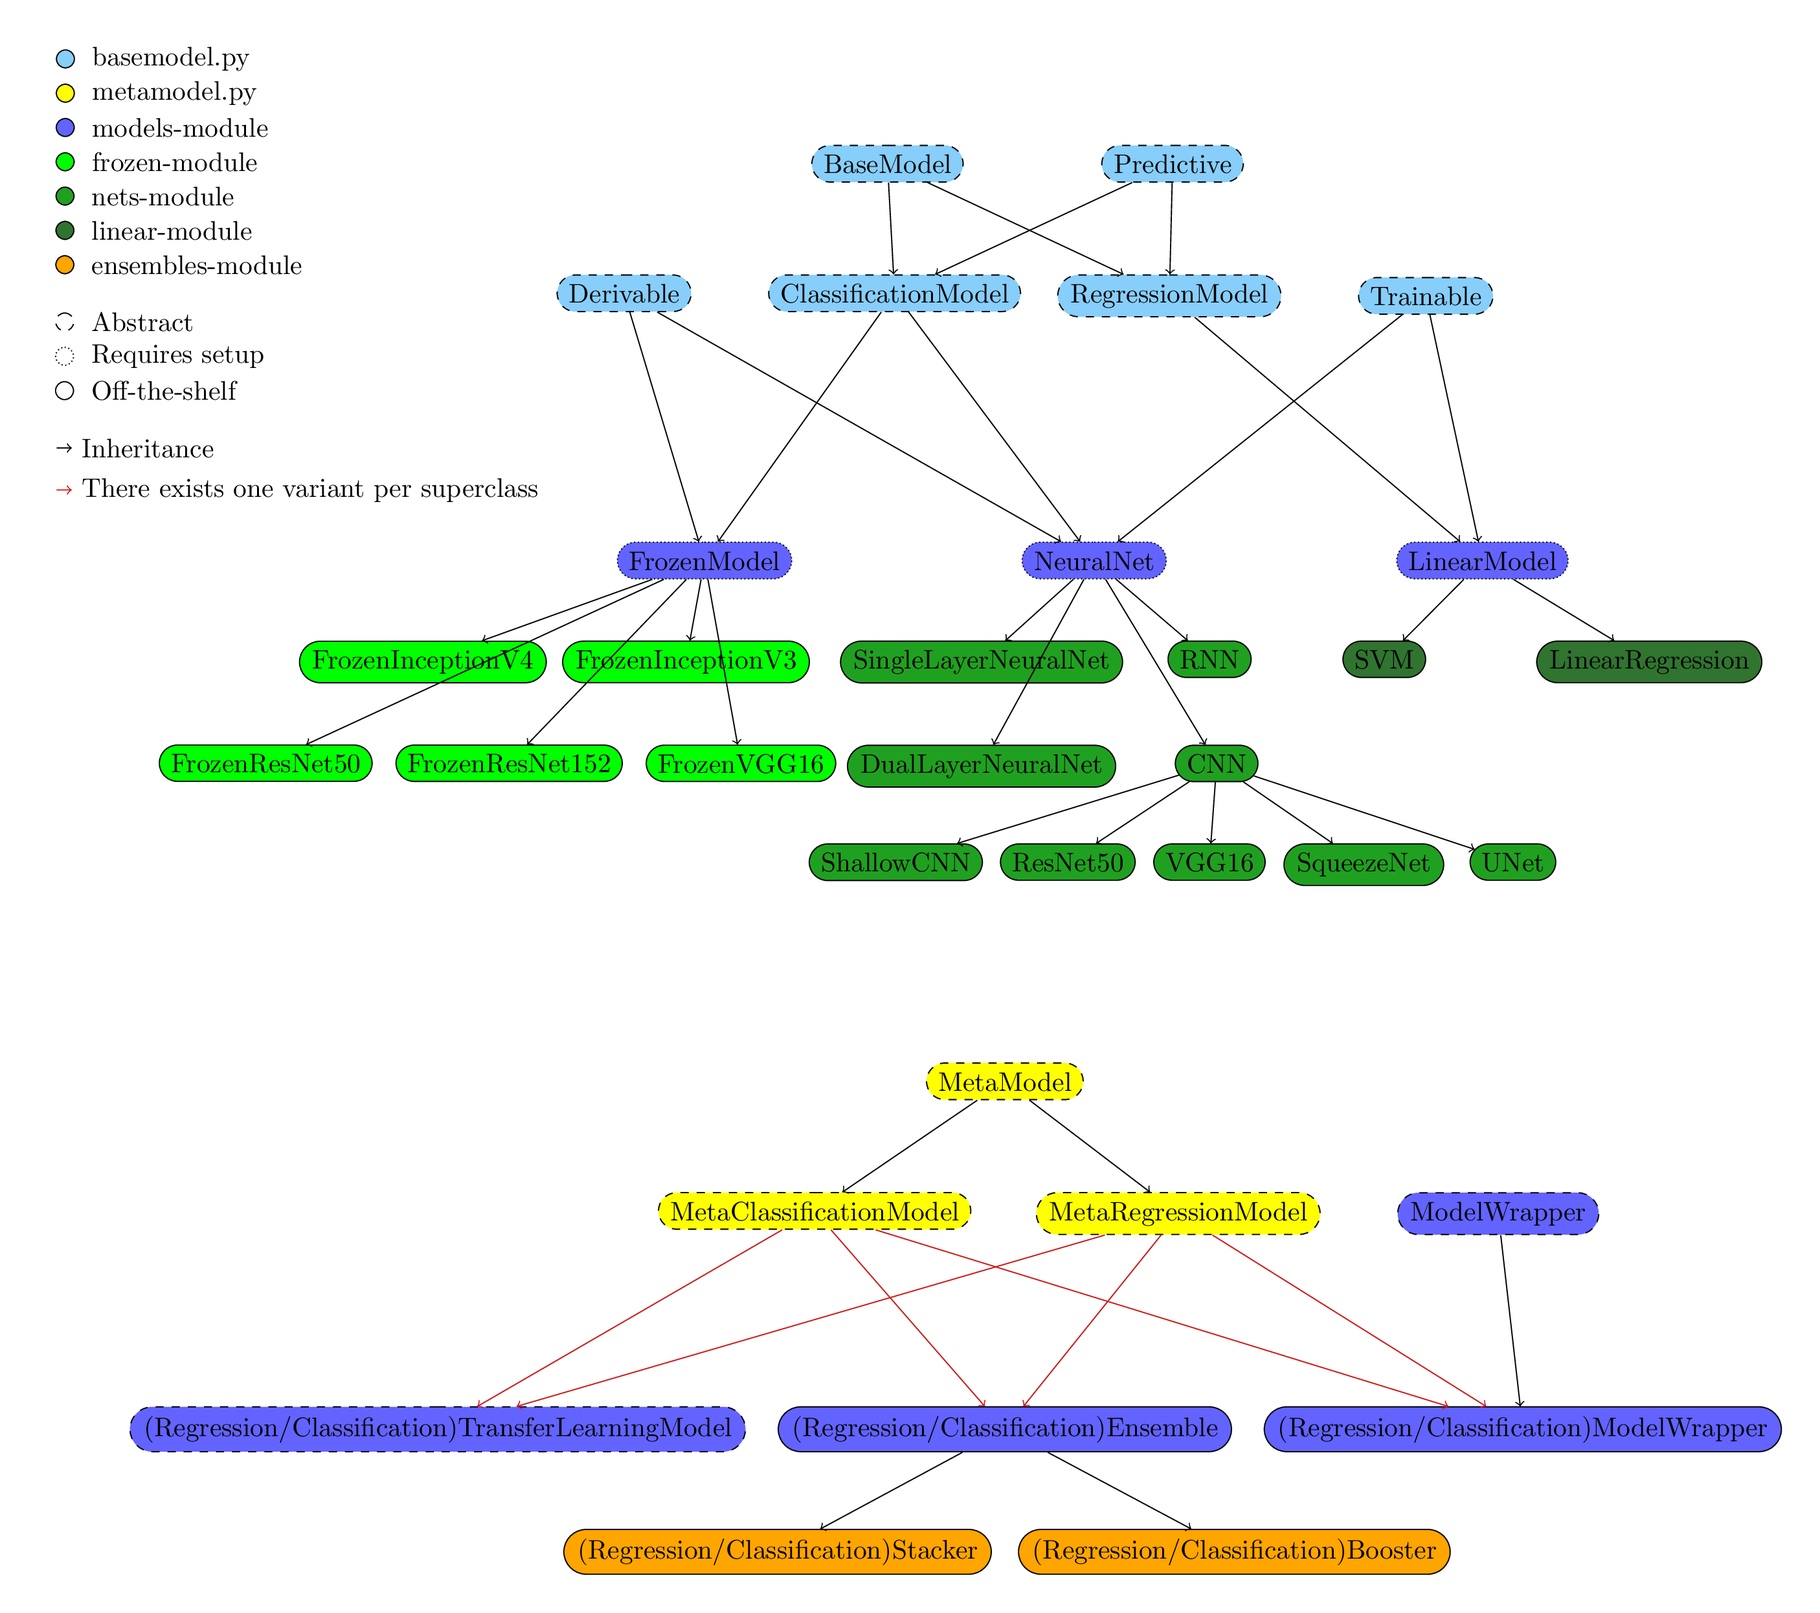
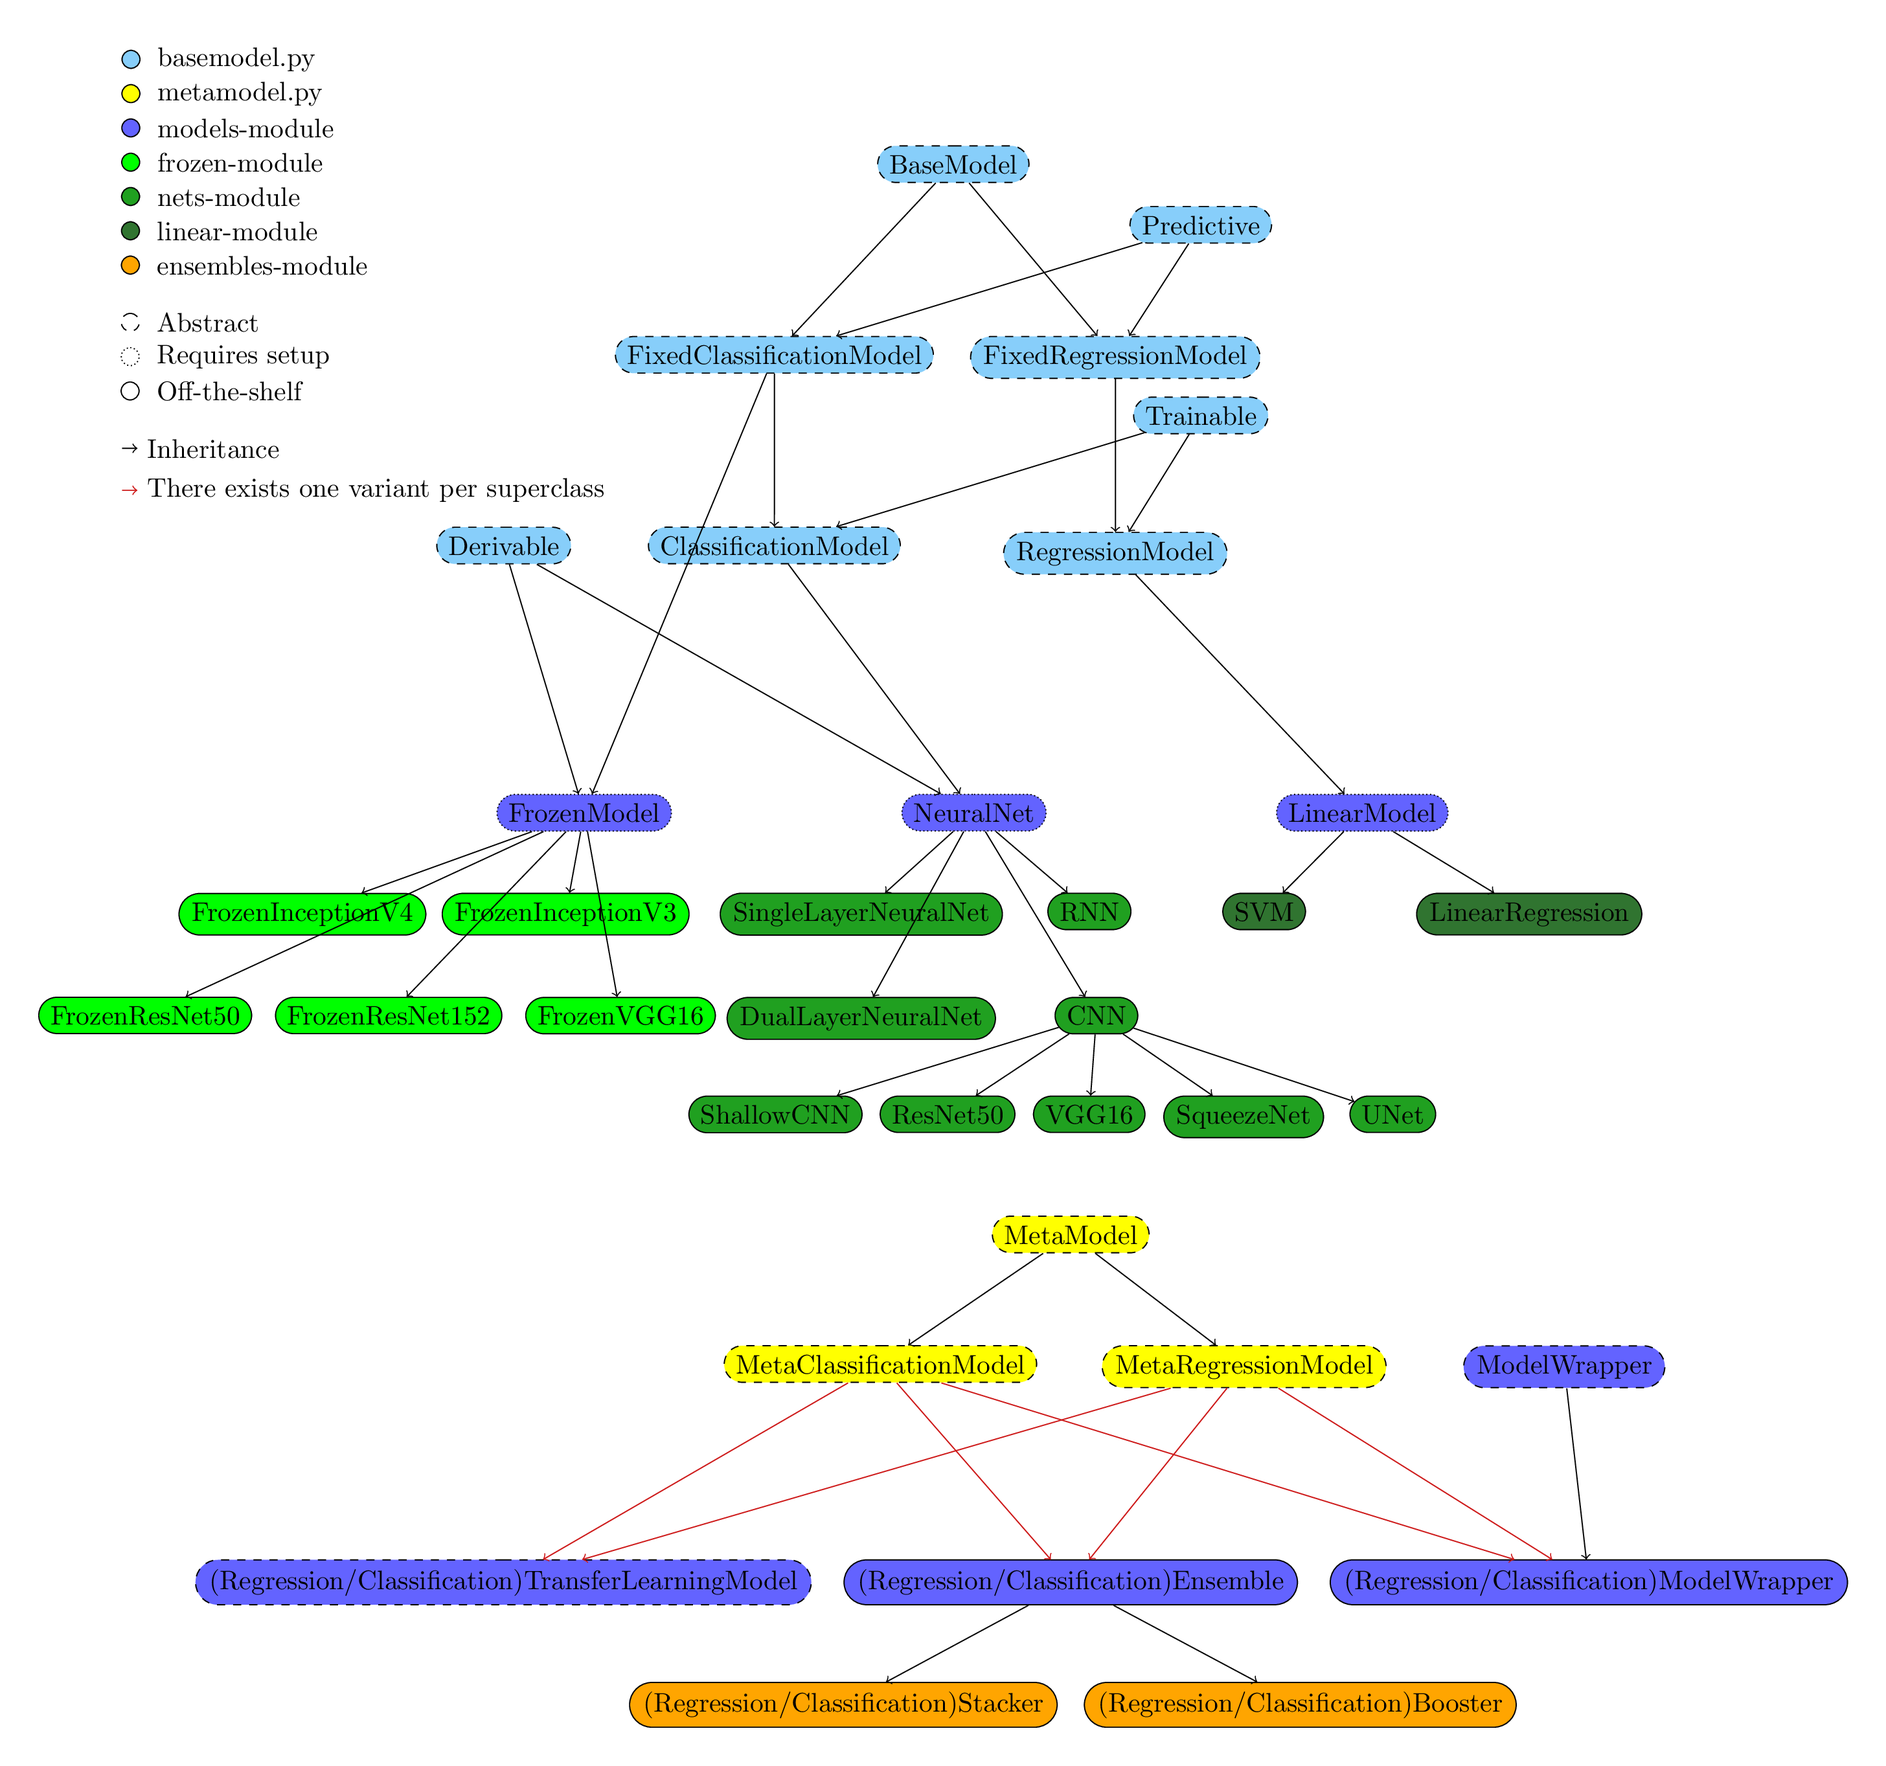
More tests. Test-suite run-time is out of control

diff --git a/diagrams/model-hierarchy/hierarchy.tex b/diagrams/model-hierarchy/hierarchy.tex
@@ -19,13 +19,15 @@
 \begin{document}
 \begin{tikzpicture}[scale=1.5]
     \node (basemodel) [draw, dashed, fill=lightblue, rounded rectangle] {BaseModel};
-    \node (predictive) [right=1.8cm of basemodel, draw, dashed, fill=lightblue, rounded rectangle] {Predictive};
-    \node (predclassification) [below left=1.2cm and -2.25cm of basemodel, draw, dashed, fill=lightblue, rounded rectangle] {ClassificationModel};
-    \node (predregression) [below right=1.2cm and 1.75cm of basemodel, draw, dashed, fill=lightblue, rounded rectangle] {RegressionModel};
-    \node (trainable) [right=of predregression, draw, dashed, fill=lightblue, rounded rectangle] {Trainable};
-    \node (derivable) [left=of predclassification, draw, dashed, fill=lightblue, rounded rectangle] {Derivable};
+    \node (predictive) [below right=0.3 and 1.8cm of basemodel, draw, dashed, fill=lightblue, rounded rectangle] {Predictive};
+    \node (fixedclassification) [below left=2cm and -0.25cm of basemodel, draw, dashed, fill=lightblue, rounded rectangle] {FixedClassificationModel};
+    \node (fixedregression) [below right=2cm and -0.25cm of basemodel, draw, dashed, fill=lightblue, rounded rectangle] {FixedRegressionModel};
+    \node (trainable) [below=2cm of predictive, draw, dashed, fill=lightblue, rounded rectangle] {Trainable};
+    \node (classification) [below=2cm of fixedclassification, draw, dashed, fill=lightblue, rounded rectangle] {ClassificationModel};
+    \node (regression) [below=2cm of fixedregression, draw, dashed, fill=lightblue, rounded rectangle] {RegressionModel};
+    \node (derivable) [left=of classification, draw, dashed, fill=lightblue, rounded rectangle] {Derivable};
 
-    \node (nn) [below right=3cm and 0.5cm of predclassification, draw, densely dotted, fill=blue, rounded rectangle] {NeuralNet};
+    \node (nn) [below right=3cm and 0.5cm of classification, draw, densely dotted, fill=blue, rounded rectangle] {NeuralNet};
     \node (singlenn) [below left=0.8cm and -0.8cm of nn, draw, fill=green, rounded rectangle] {SingleLayerNeuralNet};
     \node (dualnn) [below=0.8cm of singlenn, draw, fill=green, rounded rectangle] {DualLayerNeuralNet};
     \node (rnn) [below right=0.8cm and 0.5cm of nn, draw, fill=green, rounded rectangle] {RNN};
@@ -74,7 +76,7 @@
     \node (multout) [below=0.3cm of arrowout] {};
     \node (multin) [right=0.2cm of multout] {There exists one variant per superclass};
 
-    \node (metamodel) [below right=11.5cm and 0cm of basemodel, draw, dashed, fill=yellow, rounded rectangle] {MetaModel};
+    \node (metamodel) [below right=13.5cm and 0cm of basemodel, draw, dashed, fill=yellow, rounded rectangle] {MetaModel};
     \node (metaclassification) [below left=1.2cm and -0.1cm of metamodel, draw, dashed, fill=yellow, rounded rectangle] {MetaClassificationModel};
     \node (metaregression) [below right=1.2cm and -0.1cm of metamodel, draw, dashed, fill=yellow, rounded rectangle] {MetaRegressionModel};
     \node (modelwrapper) [right=1cm of metaregression, draw, dashed, fill=blue, rounded rectangle] {ModelWrapper};
@@ -86,12 +88,15 @@
 
 
     \draw[->]
-    (basemodel) edge (predclassification)
-    (basemodel) edge (predregression)
-    (predictive) edge (predclassification)
-    (predictive) edge (predregression)
-    (predclassification) edge (nn)
-    (trainable) edge (nn)
+    (basemodel) edge (fixedclassification)
+    (basemodel) edge (fixedregression)
+    (predictive) edge (fixedclassification)
+    (predictive) edge (fixedregression)
+    (fixedclassification) edge (classification)
+    (fixedregression) edge (regression)
+    (classification) edge (nn)
+    (trainable) edge (classification)
+    (trainable) edge (regression)
     (derivable) edge (nn)
     (frozen) edge (finc3)
     (frozen) edge (finc4)
@@ -107,11 +112,11 @@
     (cnn) edge (vgg16)
     (cnn) edge (squeeze)
     (cnn) edge (unet)
-    (predregression) edge (linear)
-    (trainable) edge (linear)
+    (regression) edge (linear)
+
     (linear) edge (svm)
     (linear) edge (linreg)
-    (predclassification) edge (frozen)
+    (fixedclassification) edge (frozen)
     (derivable) edge (frozen)
     (metamodel) edge (metaregression)
     (metamodel) edge (metaclassification)

diff --git a/tests/mock.py b/tests/mock.py
@@ -1,31 +1,24 @@
-from tfwrapper.models import BaseModel, Predictive, RegressionModel, ClassificationModel
+from tfwrapper.models import BaseModel, Predictive, FixedRegressionModel, FixedClassificationModel, RegressionModel, ClassificationModel
 
 class MockBaseModel(BaseModel):
-    @property
-    def graph(self):
-        return super().graph
+    def mock(self):
+        pass
 
-    @property
-    def variables(self):
-        return super().variables
 
-    def __init__(self, *args, **kwargs):
-        super().__init__(*args, **kwargs)
+class MockFixedRegressionModel(FixedRegressionModel):
+    def validate(self, *args, **kwargs):
+        pass
 
-    def reset(self, *args, **kwargs):
-        super().reset(*args, **kwargs)
+    def predict(self, *args, **kwargs):
+        pass
 
-    def save(self, *args, **kwargs):
-        super().save(*args, **kwargs)
 
-    def load(self, *args, **kwargs):
-        super().load(*args, **kwargs)
+class MockFixedClassificationModel(FixedClassificationModel):
+    def validate(self, *args, **kwargs):
+        pass
 
-    def load_from_meta_graph(self, *args, **kwargs):
-        super().load_from_meta_graph(*args, **kwargs)
-
-    def from_tw(self, *args, **kwargs):
-        super().from_tw(*args, **kwargs)
+    def predict(self, *args, **kwargs):
+        pass
 
 
 class MockRegressionModel(RegressionModel):
@@ -43,6 +36,21 @@ class MockRegressionModel(RegressionModel):
     def __init__(self, *args, **kwargs):
         pass
 
+    def reset(self, *args, **kwargs):
+        pass
+
+    def save(self, *args, **kwargs):
+        pass
+
+    def load(self, *args, **kwargs):
+        pass
+
+    def load_from_meta_graph(self, *args, **kwargs):
+        pass
+
+    def from_tw(self, *args, **kwargs):
+        pass
+
     def validate(self, *args, **kwargs):
         pass
 
@@ -50,36 +58,10 @@ class MockRegressionModel(RegressionModel):
         pass
 
     def train(self, *args, **kwargs):
-        pass
-
-    def from_tw(self, *args, **kwargs):
-        pass
-
-    def load(self, *args, **kwargs):
-        pass
-
-    def reset(self, *args, **kwargs):
-        pass
-
-    def save(self, *args, **kwargs):
         pass
 
 
 class MockClassificationModel(ClassificationModel):
-    _graph = None
-    _variables = None
-
-    @property
-    def graph(self):
-        return self._graph
-
-    @property
-    def variables(self):
-        return self._variables
-
-    def __init__(self, *args, **kwargs):
-        pass
-
     def validate(self, *args, **kwargs):
         pass
 
@@ -87,16 +69,4 @@ class MockClassificationModel(ClassificationModel):
         pass
 
     def train(self, *args, **kwargs):
-        pass
-
-    def from_tw(self, *args, **kwargs):
-        pass
-
-    def load(self, *args, **kwargs):
-        pass
-
-    def reset(self, *args, **kwargs):
-        pass
-
-    def save(self, *args, **kwargs):
         pass

diff --git a/tests/test_classificationmodel.py b/tests/test_classificationmodel.py
@@ -1,0 +1,55 @@
+import pytest
+import tensorflow as tf
+
+from tfwrapper.models import ClassificationModel
+
+from mock import MockFixedClassificationModel, MockClassificationModel
+from utils import softmax_wrapper
+
+def test_fixed_init():
+    name = 'test-fixed-init'
+    model = MockFixedClassificationModel([2, 2], 2, [softmax_wrapper()], name=name)
+
+    assert model.loss is not None, 'FixedClassificationModel.__init__ does not set loss'
+    assert type(model.loss) is tf.Tensor, 'FixedClassificationModel.__init__ does not set loss to a tensor'
+    assert name + '/loss:0' == model.loss.name, 'FixedClassificationModel.__init__ does not set the name of the loss-tensor to loss'
+    assert model.accuracy is not None, 'FixedClassificationModel.__init__ does not set accuracy'
+    assert type(model.accuracy) is tf.Tensor, 'FixedClassificationModel.__init__ does not set accuracy to a tensor'
+    assert name + '/accuracy:0' == model.accuracy.name, 'FixedClassificationModel.__init__ does not set the name of the accuracy-tensor to accuracy'
+
+
+def test_set_loss():
+    name = 'test-set-loss'
+    model = MockFixedClassificationModel([2, 2], 1, [lambda x: tf.Variable([[.2]])], name=name)
+    model.loss = lambda y, preds, name: tf.divide(y, preds, name=name)
+
+    with tf.Session(graph=model.graph) as sess:
+        result = sess.run(model.loss, feed_dict={model.y: [[2.]], model.preds: [[4.]]})
+
+    assert len(result.shape) == 2
+    assert result[0][0] == 0.5
+    # TODO (08.08.17): Reinstate when we figure out how
+    #assert name + '/loss:0' == model.loss.name
+
+
+def test_set_accuracy():
+    name = 'test-set-accuracy'
+    model = MockFixedClassificationModel([2, 2], 1, [lambda x: tf.Variable([[.2]])], name=name)
+    model.accuracy = lambda y, preds, name: tf.multiply(y, preds, name=name)
+
+    with tf.Session(graph=model.graph) as sess:
+        result = sess.run(model.accuracy, feed_dict={model.y: [[2.]], model.preds: [[4.]]})
+
+    assert len(result.shape) == 2
+    assert result[0][0] == 8
+    # TODO (08.08.17): Reinstate when we figure out how
+    #assert name + '/accuracy:0' == model.accuracy.name
+
+
+def test_init():
+    name = 'test-init'
+    model = MockClassificationModel([2, 2], 2, [lambda x: tf.Variable([5., 5.])], name=name)
+
+    assert model.optimizer is not None, 'FixedClassificationModel.__init__ does not set optimizer'
+    assert type(model.optimizer) is tf.Operation, 'FixedClassificationModel.__init__ does not set optimizer to a tensor'
+    assert name + '/optimizer' == model.optimizer.name, 'FixedClassificationModel.__init__ does not set the name of the optimizer-tensor to optimizer'

diff --git a/tfwrapper/models/basemodel.py b/tfwrapper/models/basemodel.py
@@ -36,7 +36,7 @@ def _parse_layer_list(start: tf.Tensor, remaining: List[Union[tf.Tensor, _tensor
                 else:
                     log_and_raise(InvalidArgumentException, 'Invalid layer dependency type %s. (Valid is [str, list])' % type(dependencies))
         elif not callable(layer):
-            log_and_raise(InvalidArgumentException, 'Invalid layer typ %s. (Valid is [Layer, callable]' % str(type(layer)))
+            log_and_raise(InvalidArgumentException, 'Invalid layer type %s. (Valid is [Layer, callable]' % str(type(layer)))
 
         prev = layer(prev)
         tensors.append({'name': prev.name, 'tensor': prev})
@@ -309,9 +309,9 @@ class ClassificationModel(FixedClassificationModel, Trainable):
         return self._optimizer
 
     @optimizer.setter
-    def optimizer(self, value: Union[tf.Tensor, Optimizer, ABCMeta, Callable[..., tf.Tensor]]):
+    def optimizer(self, value: Union[tf.Operation, Optimizer, ABCMeta, Callable[..., tf.Tensor]]):
         self._optimizer_key = value
-        if type(value) is tf.Tensor:
+        if type(value) is tf.Operation:
             self._optimizer = value
         elif isinstance(value, Optimizer):
             self._optimizer = value(learning_rate=self.lr_placeholder, loss=self.loss, name=self.name + '/optimizer')
@@ -323,7 +323,7 @@ class ClassificationModel(FixedClassificationModel, Trainable):
             f = get_optimizer_by_name(value)
             self._optimizer = f(learning_rate=self.lr_placeholder, loss=self.loss, name=self.name + '/optimizer')
         else:
-            log_and_raise(InvalidArgumentException, 'Invalid optimizer type %s. (Valid is [tf.Tensor, Optimizer, ABCMeta, callable, str])' % str(type(value)))
+            log_and_raise(InvalidArgumentException, 'Invalid optimizer type %s. (Valid is [tf.Operation, Optimizer, ABCMeta, callable, str])' % str(type(value)))
 
     @property
     def loss(self) -> tf.Tensor:

diff --git a/tests/test_modelwrapper.py b/tests/test_modelwrapper.py
@@ -1,4 +1,5 @@
 import pytest
+import tensorflow as tf
 
 from tfwrapper.models import ModelWrapper, RegressionModelWrapper, ClassificationModelWrapper
 from tfwrapper.utils.exceptions import InvalidArgumentException
@@ -15,7 +16,7 @@ def test_from_instance_regression():
 
 
 def test_from_instance_classification():
-    model = MockClassificationModel()
+    model = MockClassificationModel([2, 1], 2, [lambda x: tf.Variable([5., 5.])])
     wrapper = ModelWrapper.from_instance(model)
 
     assert isinstance(wrapper, ClassificationModelWrapper), 'Wrapping a classification model does not yield a ClassificationModelWrapper'
@@ -24,7 +25,7 @@ def test_from_instance_classification():
 def test_from_instance_invalid():
     exception = False
     try:
-        ModelWrapper.from_instance(MockBaseModel([1, 2], 2, [softmax_wrapper()]))
+        ModelWrapper.from_instance(MockBaseModel([1, 2], 2, [lambda x: tf.Variable(5.)]))
     except InvalidArgumentException:
         exception = True
 

diff --git a/tests/test_layers.py b/tests/test_layers.py
@@ -2,8 +2,9 @@ import pytest
 import numpy as np
 import tensorflow as tf
 
-from tfwrapper.layers import *
-
+print('Before large import')
+from tfwrapper.layers import bias, weight, reshape, relu, softmax, fullyconnected, dropout, channel_means, concatenate, zoom, unet_block, deconv2d
+print('After large import')
 
 def test_bias():
     size = 5
@@ -43,19 +44,6 @@ def test_reshape():
         result = sess.run(layer(values))
 
     assert np.array_equal(shape, result.shape)
-
-
-def test_out():
-    name = 'test_out'
-    values = np.zeros([10, 10])
-    layer = relu(name=name)
-
-    with tf.Session() as sess:
-        tensor = layer(values)
-        result = sess.run(tensor)
-
-    assert name + ':0' == tensor.name
-    assert np.array_equal(values.shape, result.shape)
 
 
 def test_relu():

diff --git a/tfwrapper/dataset/feature_loader.py b/tfwrapper/dataset/feature_loader.py
@@ -48,7 +48,11 @@ class FeatureLoader(ImageLoader):
                 else:
                     logger.debug('Extracting features for %s' % names[i])
 
+                    # TODO (08.08.17): Why is the lookup inside the loop?
                     imgs, names = super().load(img, name, label=label)
+
+                    if i >= len(imgs):
+                        continue
 
                     if self.layer is None:
                         vector = self.model.extract_bottleneck_features(imgs[i], sess=sess)

diff --git a/tfwrapper/models/__init__.py b/tfwrapper/models/__init__.py
@@ -1,4 +1,4 @@
-from .basemodel import BaseModel, Predictive, RegressionModel, ClassificationModel, Trainable, Derivable
+from .basemodel import BaseModel, Predictive, FixedRegressionModel, FixedClassificationModel, Trainable, RegressionModel, ClassificationModel, Derivable
 from .metamodel import MetaModel, PredictiveMeta, RegressionMetaModel, ClassificationMetaModel
 from .modelwrapper import ModelWrapper, RegressionModelWrapper, ClassificationModelWrapper
 from .frozenmodel import FrozenModel

diff --git a/tfwrapper/layers/optimizers.py b/tfwrapper/layers/optimizers.py
@@ -43,4 +43,4 @@ class Adam(Optimizer):
         #beta2_var = tf.Variable(beta2, name=name + '/beta2')
         #epsilon_var = tf.Variable(epsilon, name=name + '/epsilon')
 
-        return tf.train.AdamOptimizer(learning_rate=lr, beta1=beta1, beta2=beta2, epsilon=epsilon, name=name + '/adam').minimize(loss, name=name + '/optimizer')
+        return tf.train.AdamOptimizer(learning_rate=lr, beta1=beta1, beta2=beta2, epsilon=epsilon, name=name + '/adam').minimize(loss, name=name)
